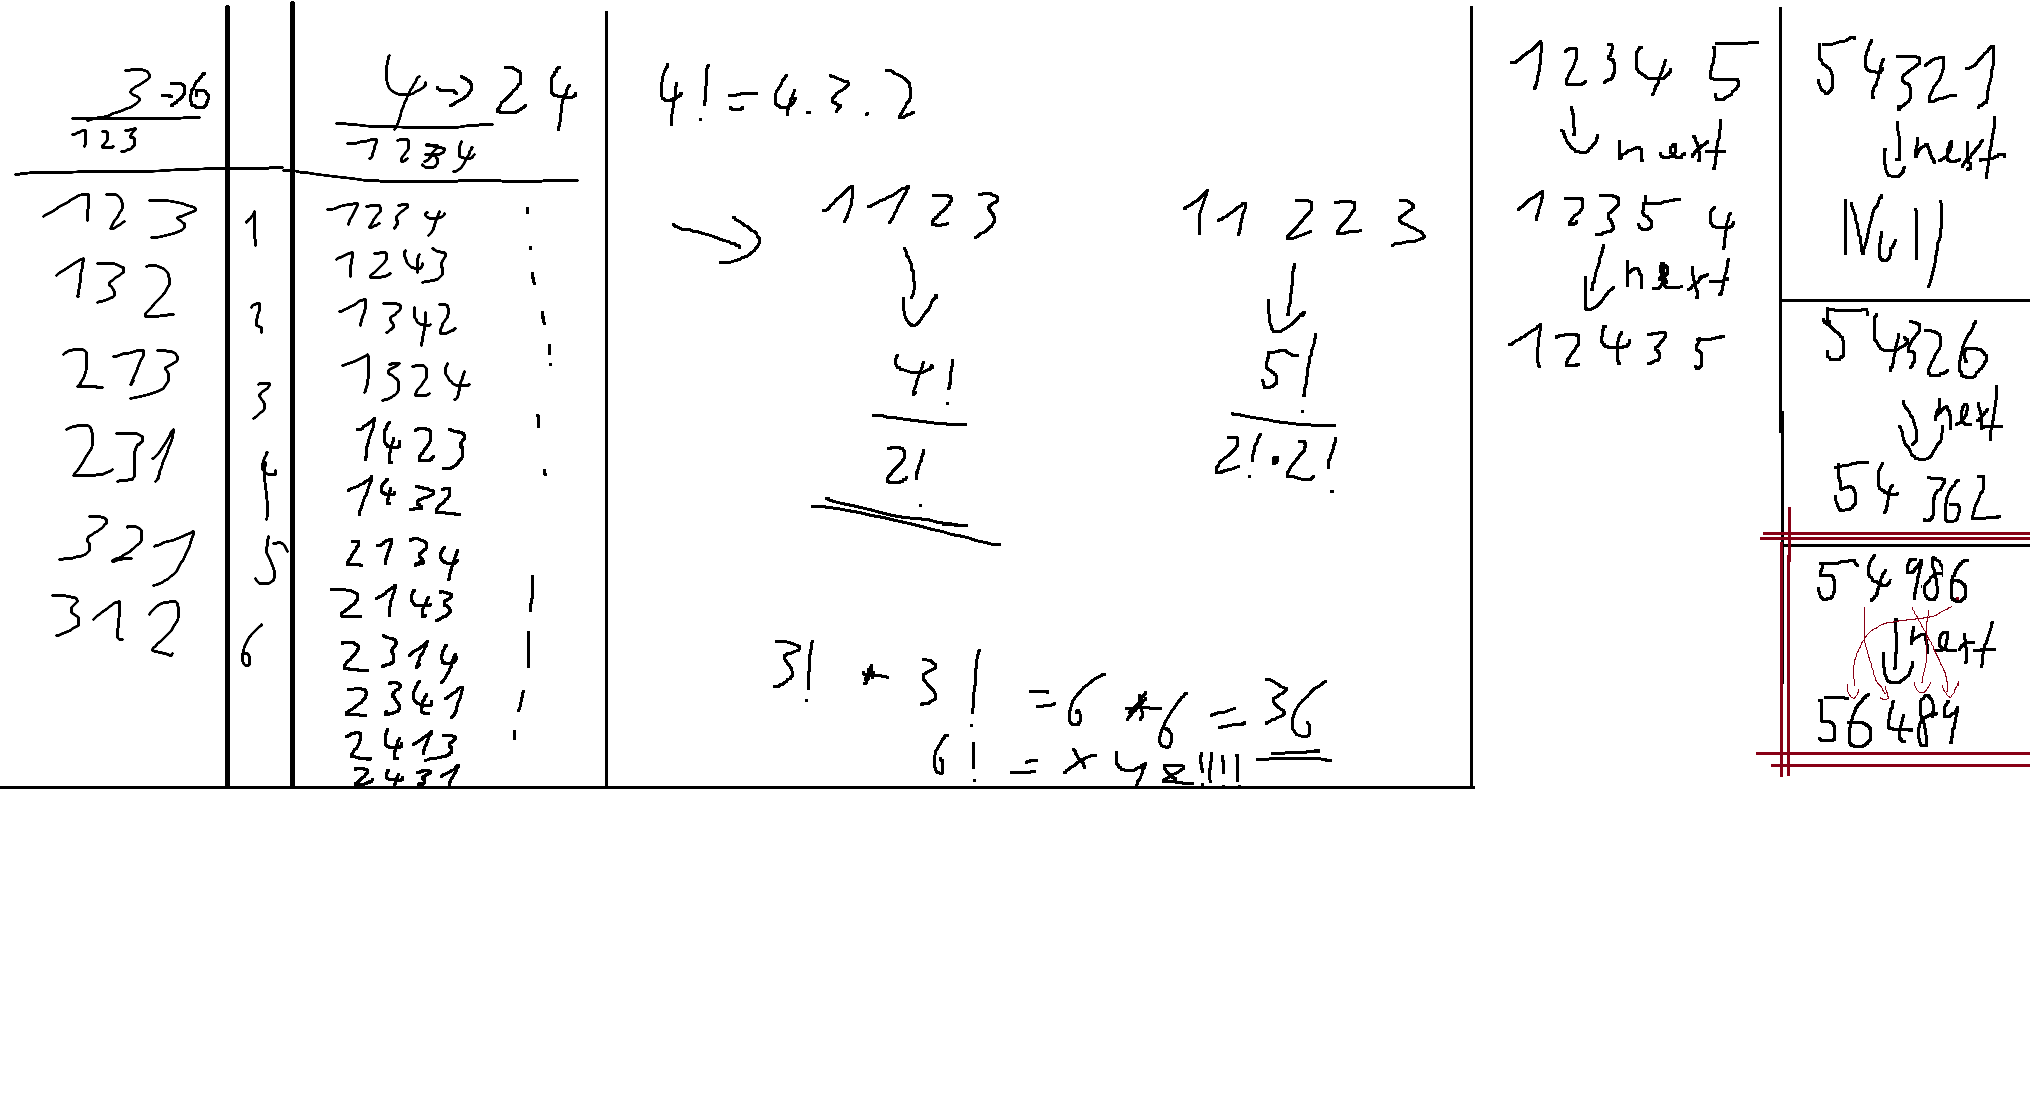
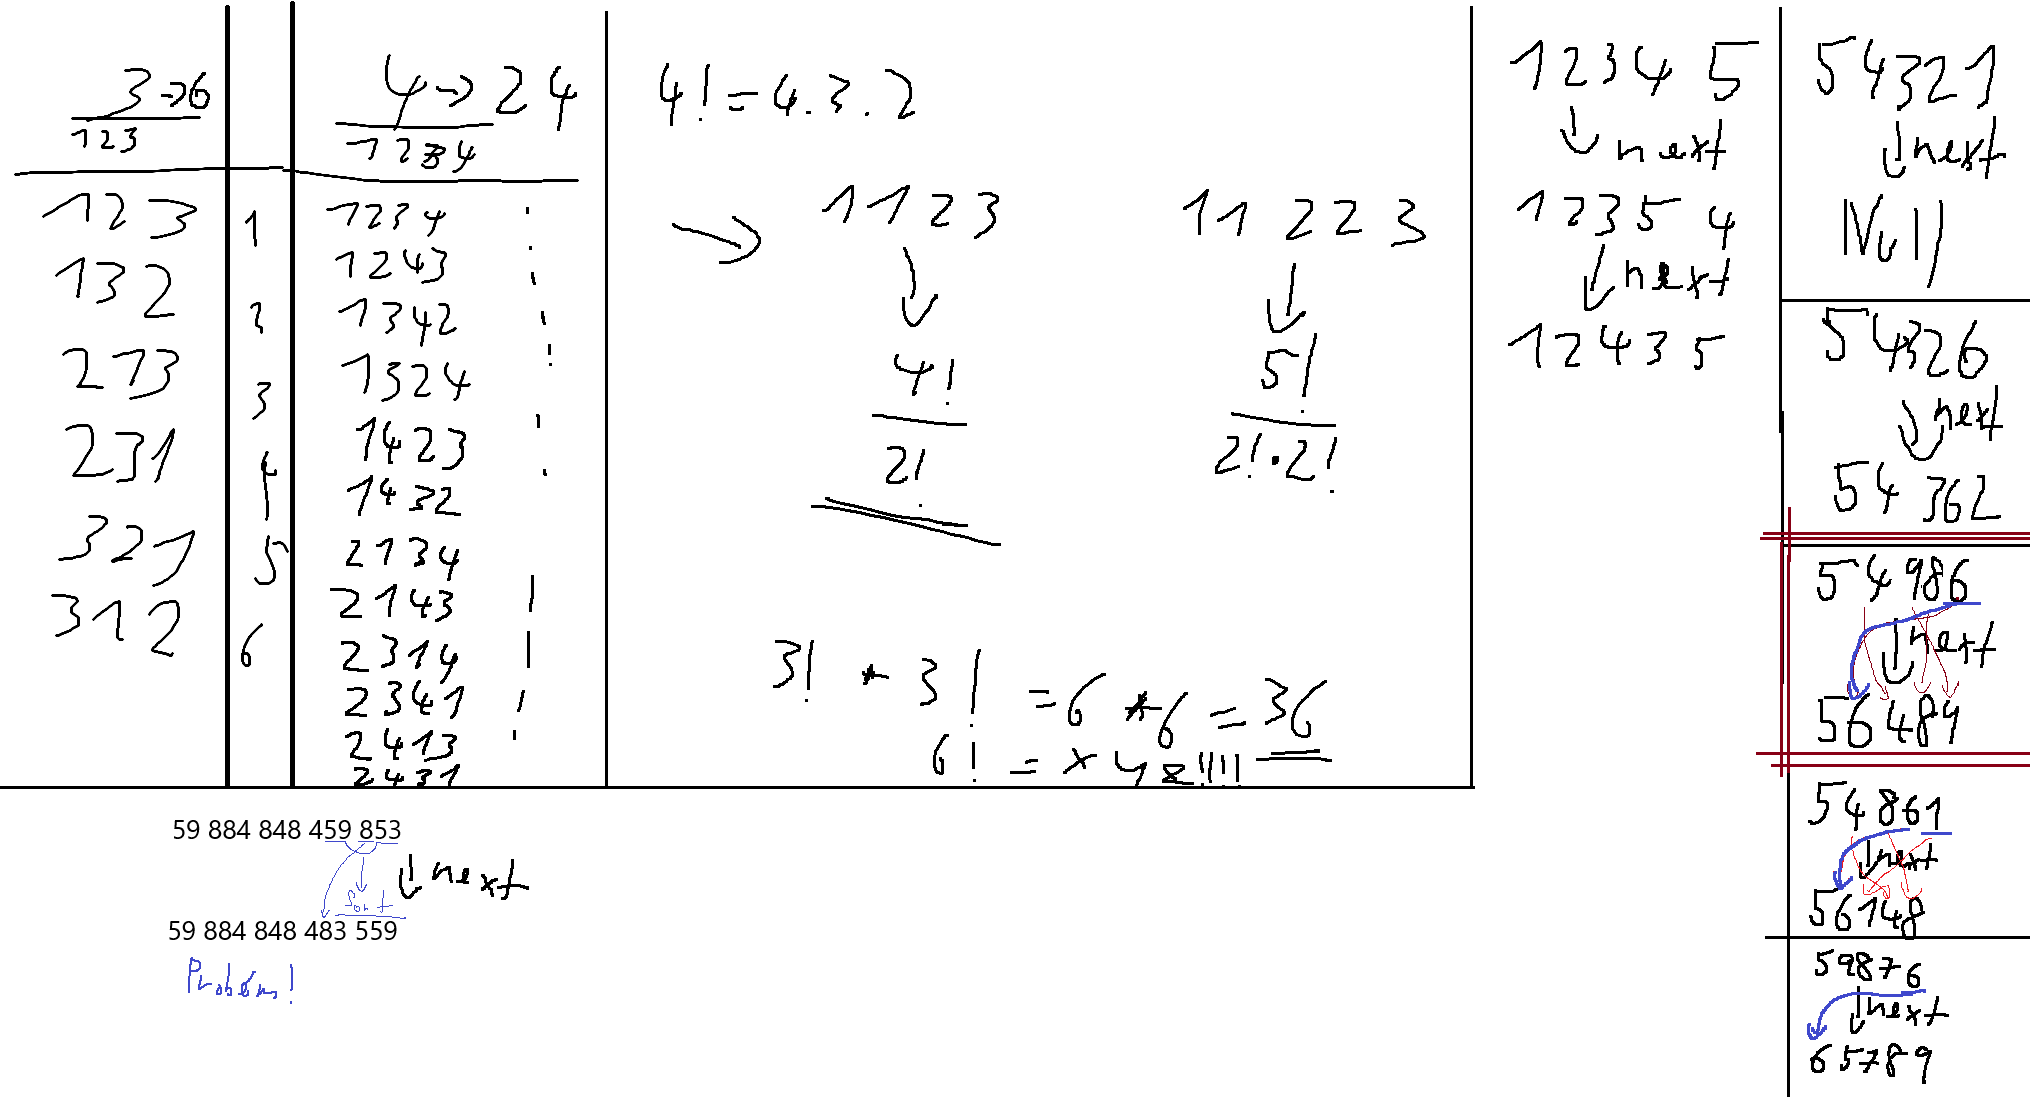
NextBiggerNumber day 2

diff --git a/Kata/Y2026/Q2/NextBiggerNumber.php b/Kata/Y2026/Q2/NextBiggerNumber.php
@@ -27,45 +27,23 @@ function nextBigger(int $n):int
 		return -1;
 	}
 
+	//TODO vybiram úplně špatná čísla, viz obrázek. Musím vybrat to co má nejnižší $j.
 	for ($i = count($digits) - 1; $i > -1; $i--) {
-		for ($j = count($digits) - 2; $j > -1; $j--) {
+		for ($j = $i - 1; $j > -1; $j--) {
 			if ($digits[$i] > $digits[$j]) {
 				$biggerNumber = $digits;
 				$biggerNumber[$j] =  $digits[$i];
 				$biggerNumber[$i] = $digits[$j];
-				//TODO FIX HERE - nedokazu splitnout to co neorderovat a to co ma jit na order. Nakonec se jenom spoji OK část a seřazená část
-				$needOrdering = $biggerNumber;
-				array_splice($needOrdering, $j);
-				array_splice($biggerNumber, 0, $j);
-				sort($needOrdering);
-				$final = array_merge($biggerNumber, $needOrdering);
-				return $final;
+				$left = array_slice($biggerNumber, 0, $j + 1);
+				$right = array_slice($biggerNumber, $j + 1);
+				sort($right);
+				$final = array_merge($left, $right);
+				return (int) implode('', $final);
 			}
 		}
 	}
 
-	/*
-	$possibleNumbers = gmp_fact(intval($digits));
-	$lastIndex = array_key_last($digits);
-	$subLastIndex = array_key_last($digits) - 1;
-
-
-	for ($i = 1; $i < $possibleNumbers; $i++) {
-		$n1 = $digits[$lastIndex];
-		$n2 = $digits[$subLastIndex];
-		$newDigits = $digits;
-
-		$newDigits[$lastIndex] = $n1;
-		$newDigits[$subLastIndex] = $n2;
-
-		$newDigits = intval(implode('', $newDigits));
-
-		if ($newDigits > $n) {
-			return $newDigits;
-		}
-
-
-	}*/
+	return -1;
 }
 
 class NextBiggerNumber extends TestCase
@@ -73,14 +51,14 @@ class NextBiggerNumber extends TestCase
 	public function testBasicTests()
 	{
 		//$this->assertSame(21, nextBigger(12));
-		$this->assertSame(531, nextBigger(513));
-		$this->assertSame(2071, nextBigger(2017));
-		$this->assertSame(441, nextBigger(414));
-		$this->assertSame(414, nextBigger(144));
-		$this->assertSame(123456798, nextBigger(123456789));
-		$this->assertSame(1234567908, nextBigger(1234567890));
-		$this->assertSame(-1, nextBigger(9876543210));
-		$this->assertSame(-1, nextBigger(9999999999));
+		//$this->assertSame(531, nextBigger(513));
+		//$this->assertSame(2071, nextBigger(2017));
+		//$this->assertSame(441, nextBigger(414));
+		//$this->assertSame(414, nextBigger(144));
+		//$this->assertSame(123456798, nextBigger(123456789));
+		//$this->assertSame(1234567908, nextBigger(1234567890));
+		//$this->assertSame(-1, nextBigger(9876543210));
+		//$this->assertSame(-1, nextBigger(9999999999));
 		$this->assertSame(59884848483559, nextBigger(59884848459853));
 	}
 }